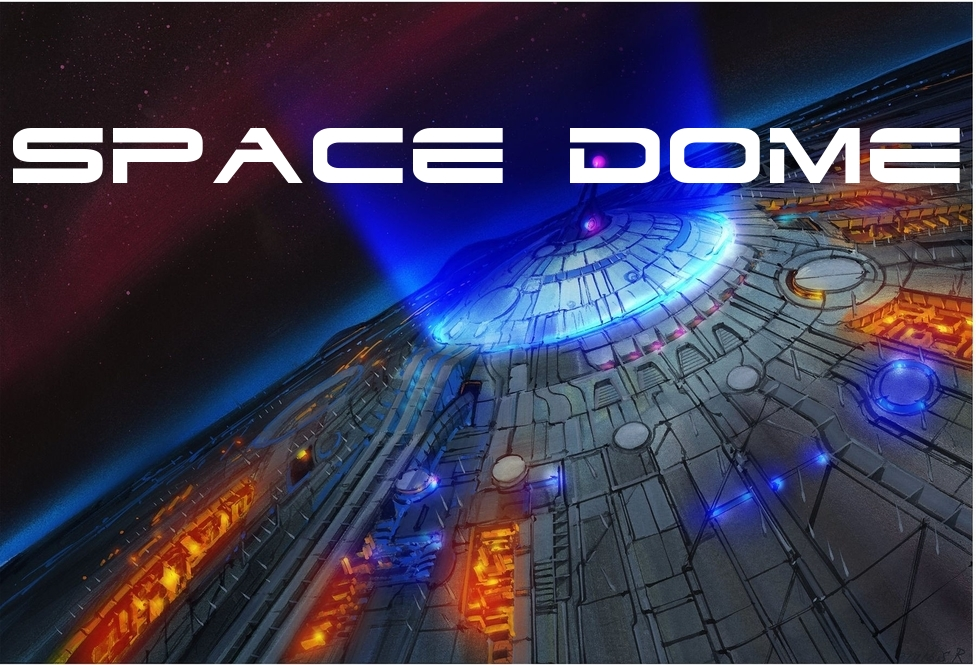
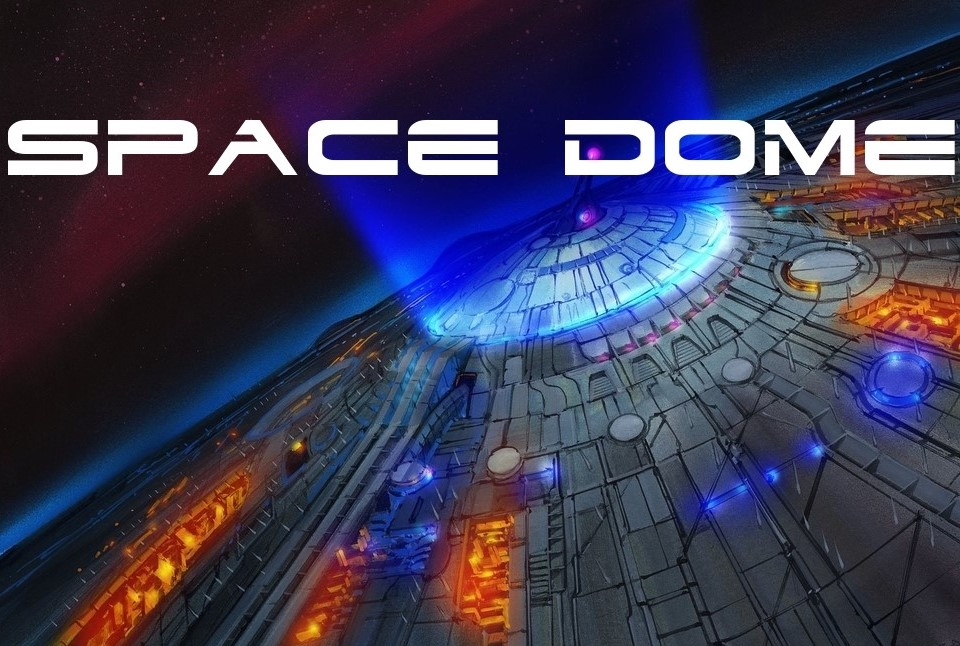
made background load on index page

Changed region(s): [[0.0, 0.0, 1.0, 1.0], [0.0, 0.1858, 0.5312, 0.2786], [0.0, 0.0, 0.625, 0.031]]

diff --git a/js/main.js b/js/main.js
@@ -878,9 +878,9 @@ var maxY = 87;
 var maxZ = 500;
 function randomPlace(){
 	 var num = Math.round(Math.random()* (3-1)+1);
-	 var posx = Math.round(Math.random()* (maxX-(-maxX))+(-maxX)); //100
-	 var posy = maxY;//Math.round(Math.random()* (20+20)-20); //97
-	 var posz = Math.round(Math.random()* (maxZ-(-maxZ))+(-maxZ)); //500
+	 var posx = Math.round(Math.random()* (maxX-(-maxX))+(-maxX)); 
+	 var posy = maxY;//Math.round(Math.random()* (20+20)-20); 
+	 var posz = Math.round(Math.random()* (maxZ-(-maxZ))+(-maxZ)); 
 
 	// //substitute shapes in switch with ammo/collectable models
 	if (maxCollectable > 0){
@@ -1083,18 +1083,3 @@ var render = function() {
 //////////////////////////////////////////////////
 
 render();
-//Start countdown timer which has been set to 2 minutes.this timer will start as soon as you click the start button as soon as countdown timerfinishes it will end scene by giving out Game Over! alert. Edit by Phediso
-
-
- i = 60;
-
-        function onTimer() {
-            document.getElementById('mycounter').innerHTML = i;
-            i--;
-            if (i < 0) {
-                alert('Game Over');
-            } else {
-                setTimeout(onTimer, 2000)
-            }
-        }
-        onTimer();

diff --git a/main.html b/main.html
@@ -33,8 +33,8 @@
       <div class="loading" id="js-loader"><div class="loader"></div></div>
       <script src='js/main.js'></script>
     </body>
-//background for the overlay scene with button. Image is in the images folder
-    <body style="background:url('background.jpg'); background-size: 100%;"></body>
+<!--background for the overlay scene with button. Image is in the images folder-->
+    <body style="background:url('images/background.jpg'); background-size: 100%;"></body>
     //button to start game when we start the game at the onClick the timer starts in the js file. Added by Phediso. view index.html to see the code original code
     
     <button onclick="start()">

diff --git a/index.html b/index.html
@@ -2,7 +2,7 @@
 <html>
 
 <head>
-    <title>GameGui</title>
+    <title>Welcome Screen</title>
     <style>
         body {
             margin: 0;
@@ -27,7 +27,7 @@
     </style>
 </head>
 
-<body style="background:url('background.jpg'); background-size: 100%;"></body>
+<body style="background:url('images/background.jpg'); background-size: 100%;"></body>
 
 <body>
 
@@ -70,7 +70,7 @@
             color: 0xFF0000
         });
 
-        var mesh = new THREE.PointLight(0xFFFF OO);
+        var mesh = new THREE.PointLight(0xFFFF00);
         light.position.set(10, 0, 10);
         scene.add(light);
         renderer.setClearColor(0xdddddd, 1);

diff --git a/css/main.css b/css/main.css
@@ -79,7 +79,7 @@ body {
   }
 }
 
-//For start button.Edited by Phediso
+/*For start button.Edited by Phediso*/
  button {
             font-size: 20px;
             padding: 10px;
